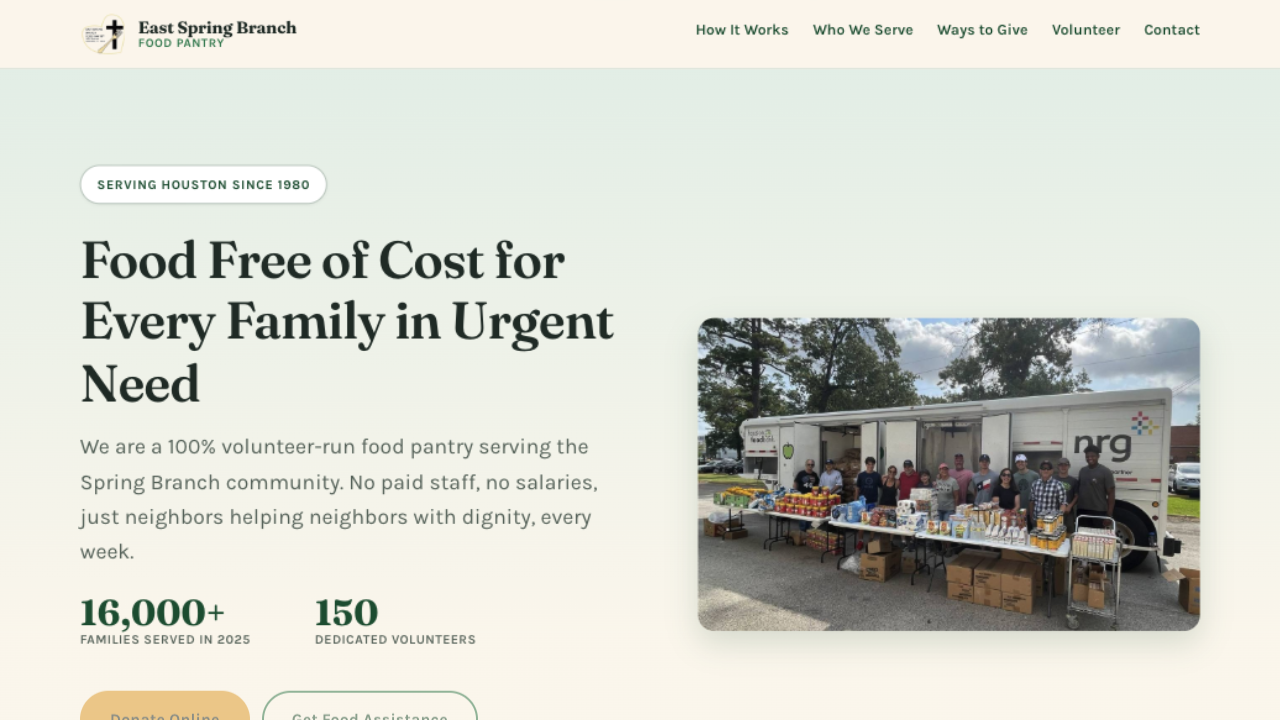
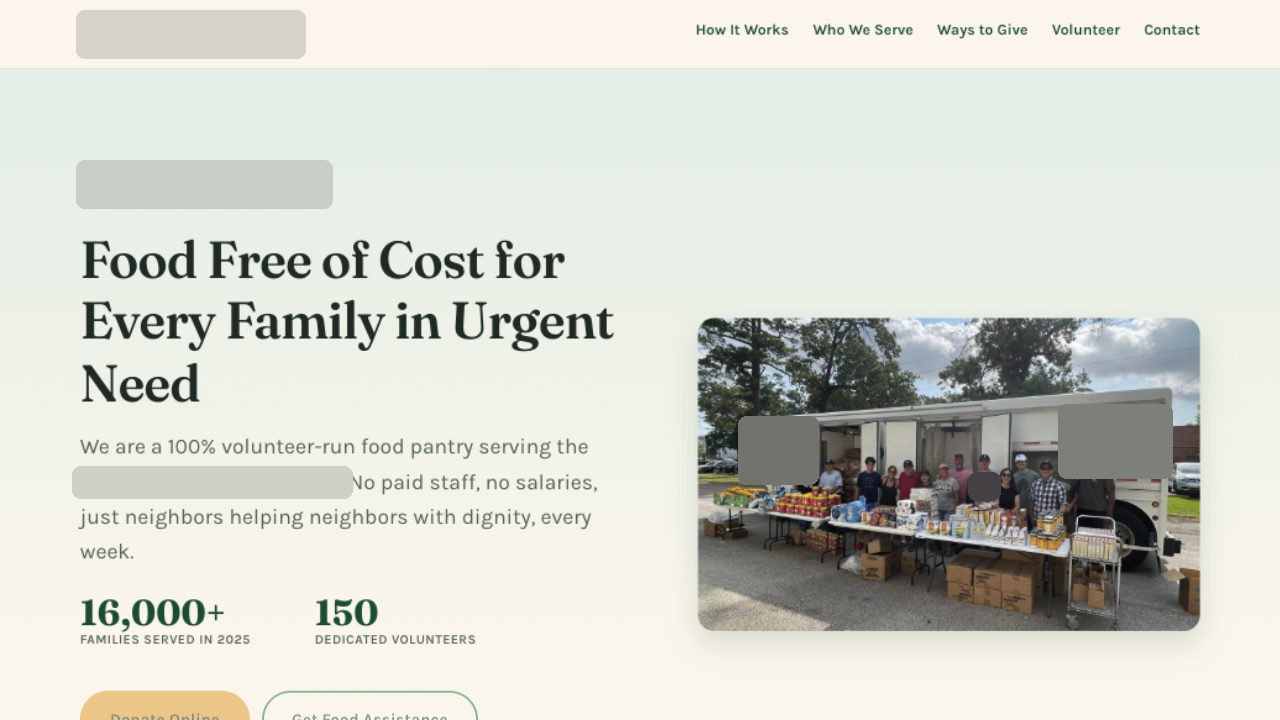
Remove organization names and locations from case studies

diff --git a/dist/index.html b/dist/index.html
@@ -1,15 +1,11 @@
 <!doctype html>
 <html lang="en"><head><meta charset="utf-8"><meta name="viewport" content="width=device-width,initial-scale=1">
 <title>Aariv's web studio - case studies</title><style>body{font:16px/1.6 -apple-system,system-ui,sans-serif;max-width:44rem;margin:2rem auto;padding:0 1rem;color:#222}img{max-width:100%;border-radius:8px;border:1px solid #ddd}a{color:#06c}h1,h2{line-height:1.2}li{margin:.3rem 0}</style></head>
-<body><h1>Aariv's web studio</h1><p>I direct AI coding agents (OpenCode, Claude Code, Antigravity) that do the typing; I plan, spec, review and test every change before it ships.</p><p>Portfolio: <a href="https://aariv.me">aariv.me</a></p><article><h2><a href="sunshine-fund.html">The Sunshine Fund</a></h2>
-<p><em>charity website (free build)</em></p><img src="../screenshots/sunshine-fund.png" alt="The Sunshine Fund screenshot" width="640"><p>Houston foster-based cat rescue: mission, adoptable cats, donate pathways. Built to load fast and read warmly on a phone, since most donors arrive from social links.</p>
-<p><a href="https://the-sunshine-fund-houston.netlify.app/">Visit the live site</a></p></article>
-<article><h2><a href="east-spring-branch-food-pantry.html">East Spring Branch Food Pantry</a></h2>
-<p><em>charity website (free build)</em></p><img src="../screenshots/food-pantry.png" alt="East Spring Branch Food Pantry screenshot" width="640"><p>Free-food pantry in Houston, TX: hours, location, what to expect on a first visit. Plain language and large type, because visitors are often in a hurry or stressed.</p>
-<p><a href="https://east-spring-branch-food-pantry.netlify.app/">Visit the live site</a></p></article>
-<article><h2><a href="doris-darlings.html">Dori's Darlings</a></h2>
-<p><em>charity website (free build)</em></p><img src="../screenshots/doris-darlings.png" alt="Dori's Darlings screenshot" width="640"><p>No-kill cat rescue in Houston, TX: adoptable cats, foster program and donate flow. Designed around big friendly photography and a sticky donate path, since rescue sites live or die on donations.</p>
-<p><a href="https://doris-darlings.netlify.app/">Visit the live site</a></p></article>
-<article><h2><a href="good-mews-for-ferals.html">Good Mews for Ferals</a></h2>
-<p><em>charity website (free build)</em></p><img src="../screenshots/good-mews-for-ferals.png" alt="Good Mews for Ferals screenshot" width="640"><p>Houston community-cat rescue (trap, neuter, return): explains TNR in plain language with a step-by-step for first-time colony caretakers. Information-first design; the audience needs answers, not animations.</p>
-<p><a href="https://good-mews-for-ferals.netlify.app/">Visit the live site</a></p></article><p><a href="index.html">All case studies</a></p></body></html>
+<body><h1>Aariv's web studio</h1><p>I direct AI coding agents (OpenCode, Claude Code, Antigravity) that do the typing; I plan, spec, review and test every change before it ships.</p><p>Portfolio: <a href="https://aariv.me">aariv.me</a></p><article><h2><a href="foster-cat-rescue.html">A foster-based cat rescue</a></h2>
+<p><em>charity website (free build)</em></p><img src="screenshots/foster-cat-rescue.png" alt="A foster-based cat rescue screenshot" width="640"><p>Foster-based cat rescue: mission, adoptable cats, donate pathways. Built to load fast and read warmly on a phone, since most donors arrive from social links.</p></article>
+<article><h2><a href="food-pantry.html">A community food pantry</a></h2>
+<p><em>charity website (free build)</em></p><img src="screenshots/food-pantry.png" alt="A community food pantry screenshot" width="640"><p>Free-food pantry: hours, location, what to expect on a first visit. Plain language and large type, because visitors are often in a hurry or stressed.</p></article>
+<article><h2><a href="cat-rescue.html">A no-kill cat rescue</a></h2>
+<p><em>charity website (free build)</em></p><img src="screenshots/cat-rescue.png" alt="A no-kill cat rescue screenshot" width="640"><p>No-kill cat rescue: adoptable cats, foster program and donate flow. Designed around big friendly photography and a sticky donate path, since rescue sites live or die on donations.</p></article>
+<article><h2><a href="community-cat-rescue.html">A community-cat (TNR) rescue</a></h2>
+<p><em>charity website (free build)</em></p><img src="screenshots/community-cat-rescue.png" alt="A community-cat (TNR) rescue screenshot" width="640"><p>Community-cat rescue (trap, neuter, return): explains TNR in plain language with a step-by-step for first-time colony caretakers. Information-first design; the audience needs answers, not animations.</p></article><p><a href="index.html">All case studies</a></p></body></html>

diff --git a/dist/community-cat-rescue.html b/dist/community-cat-rescue.html
@@ -1,0 +1,5 @@
+<!doctype html>
+<html lang="en"><head><meta charset="utf-8"><meta name="viewport" content="width=device-width,initial-scale=1">
+<title>A community-cat (TNR) rescue</title><style>body{font:16px/1.6 -apple-system,system-ui,sans-serif;max-width:44rem;margin:2rem auto;padding:0 1rem;color:#222}img{max-width:100%;border-radius:8px;border:1px solid #ddd}a{color:#06c}h1,h2{line-height:1.2}li{margin:.3rem 0}</style></head>
+<body><h1>A community-cat (TNR) rescue</h1><p><em>charity website (free build)</em></p>
+<img src="screenshots/community-cat-rescue.png" alt="A community-cat (TNR) rescue screenshot"><p>Community-cat rescue (trap, neuter, return): explains TNR in plain language with a step-by-step for first-time colony caretakers. Information-first design; the audience needs answers, not animations.</p><p><a href="index.html">All case studies</a></p></body></html>

diff --git a/dist/cat-rescue.html b/dist/cat-rescue.html
@@ -1,0 +1,5 @@
+<!doctype html>
+<html lang="en"><head><meta charset="utf-8"><meta name="viewport" content="width=device-width,initial-scale=1">
+<title>A no-kill cat rescue</title><style>body{font:16px/1.6 -apple-system,system-ui,sans-serif;max-width:44rem;margin:2rem auto;padding:0 1rem;color:#222}img{max-width:100%;border-radius:8px;border:1px solid #ddd}a{color:#06c}h1,h2{line-height:1.2}li{margin:.3rem 0}</style></head>
+<body><h1>A no-kill cat rescue</h1><p><em>charity website (free build)</em></p>
+<img src="screenshots/cat-rescue.png" alt="A no-kill cat rescue screenshot"><p>No-kill cat rescue: adoptable cats, foster program and donate flow. Designed around big friendly photography and a sticky donate path, since rescue sites live or die on donations.</p><p><a href="index.html">All case studies</a></p></body></html>

diff --git a/dist/foster-cat-rescue.html b/dist/foster-cat-rescue.html
@@ -1,0 +1,5 @@
+<!doctype html>
+<html lang="en"><head><meta charset="utf-8"><meta name="viewport" content="width=device-width,initial-scale=1">
+<title>A foster-based cat rescue</title><style>body{font:16px/1.6 -apple-system,system-ui,sans-serif;max-width:44rem;margin:2rem auto;padding:0 1rem;color:#222}img{max-width:100%;border-radius:8px;border:1px solid #ddd}a{color:#06c}h1,h2{line-height:1.2}li{margin:.3rem 0}</style></head>
+<body><h1>A foster-based cat rescue</h1><p><em>charity website (free build)</em></p>
+<img src="screenshots/foster-cat-rescue.png" alt="A foster-based cat rescue screenshot"><p>Foster-based cat rescue: mission, adoptable cats, donate pathways. Built to load fast and read warmly on a phone, since most donors arrive from social links.</p><p><a href="index.html">All case studies</a></p></body></html>

diff --git a/dist/food-pantry.html b/dist/food-pantry.html
@@ -1,0 +1,5 @@
+<!doctype html>
+<html lang="en"><head><meta charset="utf-8"><meta name="viewport" content="width=device-width,initial-scale=1">
+<title>A community food pantry</title><style>body{font:16px/1.6 -apple-system,system-ui,sans-serif;max-width:44rem;margin:2rem auto;padding:0 1rem;color:#222}img{max-width:100%;border-radius:8px;border:1px solid #ddd}a{color:#06c}h1,h2{line-height:1.2}li{margin:.3rem 0}</style></head>
+<body><h1>A community food pantry</h1><p><em>charity website (free build)</em></p>
+<img src="screenshots/food-pantry.png" alt="A community food pantry screenshot"><p>Free-food pantry: hours, location, what to expect on a first visit. Plain language and large type, because visitors are often in a hurry or stressed.</p><p><a href="index.html">All case studies</a></p></body></html>

diff --git a/README.md b/README.md
@@ -12,13 +12,13 @@ standards and final calls are mine.
 
 ## Shipped sites
 
-| Site | Kind | Live |
-|---|---|---|
-| The Sunshine Fund (Houston foster cat rescue) | charity, free build | https://the-sunshine-fund-houston.netlify.app/ |
-| East Spring Branch Food Pantry (Houston, TX) | charity, free build | https://east-spring-branch-food-pantry.netlify.app/ |
+| Site | Kind |
+|---|---|
+| A foster-based cat rescue | charity, free build |
+| A community food pantry | charity, free build |
 
 Each case study records what the site is for and the design decisions behind it,
-with a current screenshot from the live deployment.
+with a screenshot of the finished site (names and locations covered).
 
 ## Open-source tools from the studio
 
